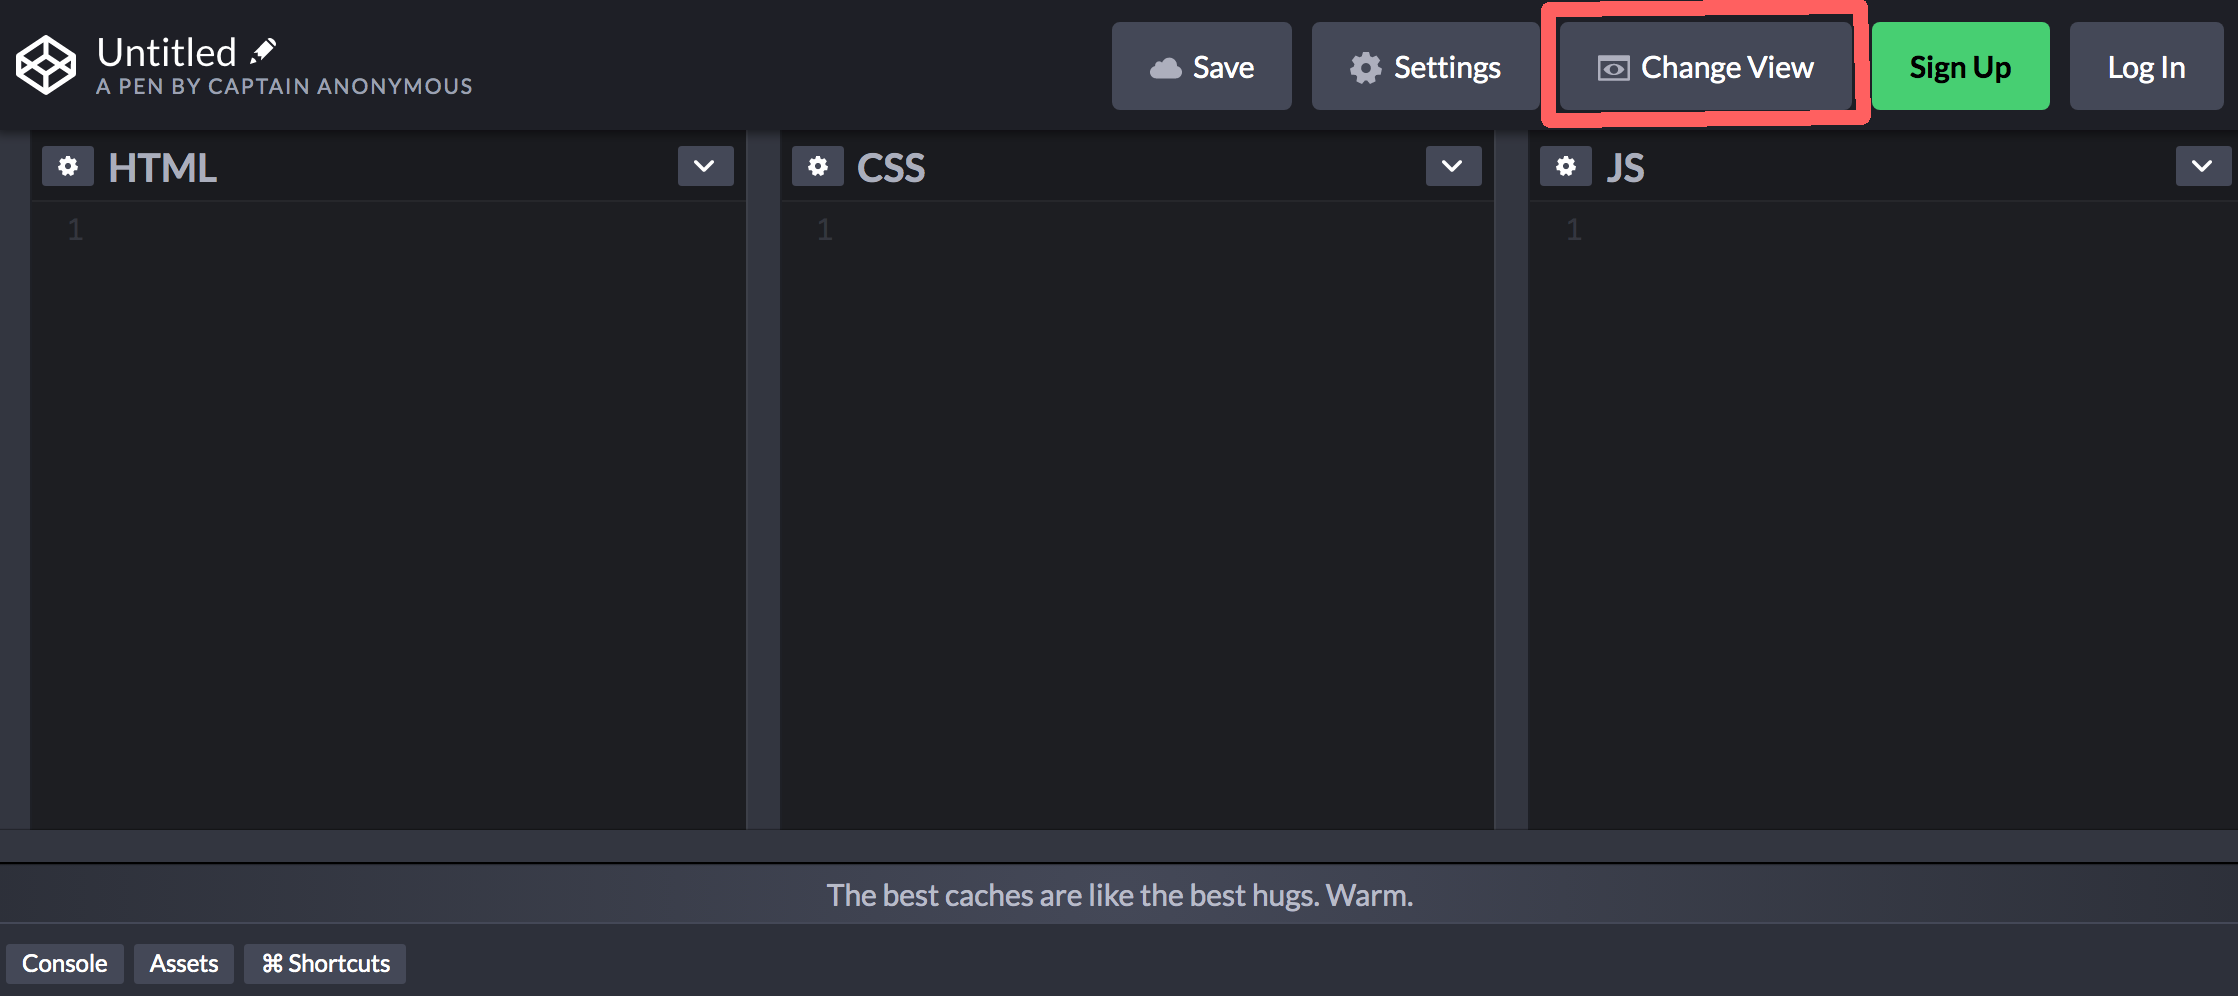
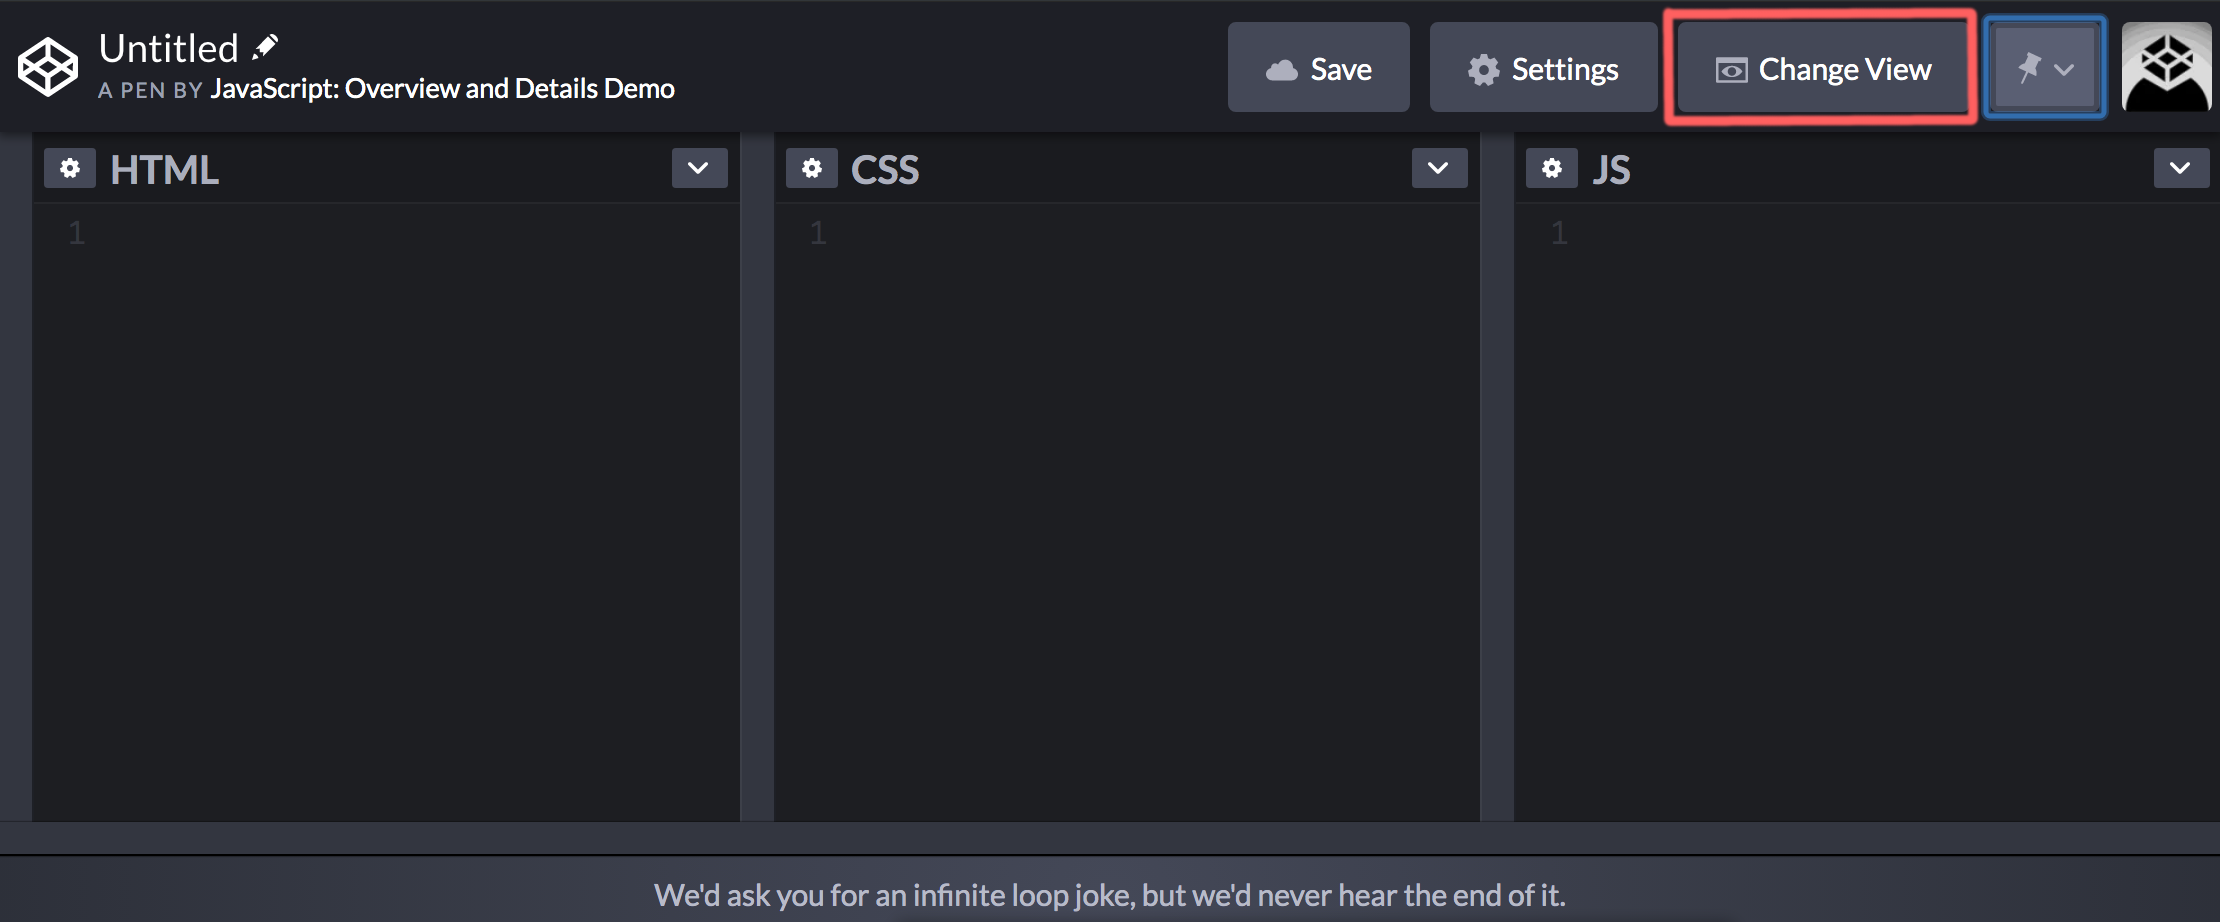
Auto Update

diff --git a/vol2/index.php b/vol2/index.php
@@ -205,25 +205,80 @@ stepheader('note-codepen-howto', 'CodePen panes'); ?>
 
     <? screenshot_vol2('codepen-editor-layout.png', True, True) ?>
 
-    <p>Now, your CodePen page should look like this:</p>
+    <p>At this point, there&rsquo;s a chance your CodePen window looks like this (a)...</p>
 
     <? screenshot_vol2('codepen-four-panes.png', True, True) ?>
 
+    <p>... and there&rsquo;s also a chance your CodePen window looks like this (b)...</p>
 
+    <? screenshot_vol2('codepen-four-panes-hidden-preview.png', True, True) ?>
 
-
-
-    <p>The way it works is: you will construct a web page by typing in (or pasting) code into the first three panes.
-        Then, a web page (your web page) will automatically appear in the fourth pane, the &ldquo;preview pane.&rdquo;</p>
-
-    <p>Let&rsquo;s build our first web page in the next step.</p>
+    <p>If your CodePen window looks like screenshot (a), then great, no problem. But,
+        if your CodePen window looks like screenshot (b), then you need to grab
+        the vertical bar on the left side of the preview pane, and then slide
+    that bar to the left, until it looks like screenshot (a).</p>
 
 
 <? stepoverview(); ?>
 <? stepfooter(); ?>
 
+
 <? #############################################################################
-stepheader('note-codepen-2', 'CodePen panes'); ?>
+stepheader('note-codepen-auto-update', 'Disable &ldquo;Auto Update Preview&rdquo;'); ?>
+
+    <p>By default, the way CodePen works is: you construct a web page by typing in (or pasting) code into the first three panes (HTML, CSS, and JavaScript). Then, a web page (your web page) will automatically appear in the fourth pane, the &ldquo;preview pane.&rdquo;
+        Furthermore, whenever you edit the code in any of the first three panes, then CodePen will automatically update the 
+    preview pane, taking your new edits into account. This functionality is known as the &ldquo;Auto Update Preview&rdquo; feature of CodePen.</p>
+    </p>
+
+    <p>While the Auto Update Preview feature is useful, it actually becomes problematic once we get to <? steplink('note-click')?>.
+        The reason it becomes problematic, is because at <? steplink('note-click')?>, and onwards, you will want to be able to
+    update the preview manually, at the click of a button, without having to edit code in order to trigger an automatic update.</p>
+
+    <p>Thus, I recommend disabling the Auto Update Preview feature. There are two ways to disable Auto Update. The first approach, disables
+    Auto Update for the current pen, and works whether or not you have signed up for an account on CodePen. The second approach, the preferred way, disables Auto Update for the current pen, and for future pens you might create. The second approach is only available to you if you 
+    have signed up for  a CodePen account.</p>
+
+    <h3>The first approach</h3>
+
+    <p>To disable Auto Update for the current pen, click the Settings button.</p>
+
+    <? screenshot_vol2('codepen-settings.png', True, True) ?>
+
+    <p>Then, click &ldquo;Behavior&rdquo;</p>
+
+    <? screenshot_vol2('codepen-behavior.png', True, True) ?>
+
+    <p>Finally, under Auto Update Preview, un-check the Enabled check box, to
+        disable Auto Update Preview.</p>
+
+    <? screenshot_vol2('codepen-auto-enabled.png', True, True) ?>
+
+    <p>To finish up, click the close button for the 
+    Pen Settings dialog box.</p>
+
+    <p>Now, whenever you want CodePen to run your code (HTML, CSS, and JavaScript),
+    you must click the Run button at the top of your window.</p>
+
+    <h3>The second approach</h3>
+
+    <p>To disable Auto Update for your current pen, and for your future pens, begin
+        by logging into CodePen (you must have a CodePen account for
+    this approach to work). Then click your avatar icon in the top-right corner.</p>
+
+    <? screenshot_vol2('codepen-avatar.png', True, True) ?>
+
+    <p>Then, click Settings from the drop-down menu.</p>
+
+    <? screenshot_vol2('codepen-avatar-settings.png', True, True) ?>
+
+    <p>Finally, scroll down and un-check the Auto Update Preview check box, to
+        disable Auto Update Preview.</p>
+
+    <? screenshot_vol2('codepen-avatar-settings-auto.png', True, True) ?>
+
+    <p>Now, whenever you want CodePen to run your code (HTML, CSS, and JavaScript),
+    you must click the Run button at the top of your window.</p>
 
 <? stepoverview(); ?>
 <? stepfooter(); ?>
